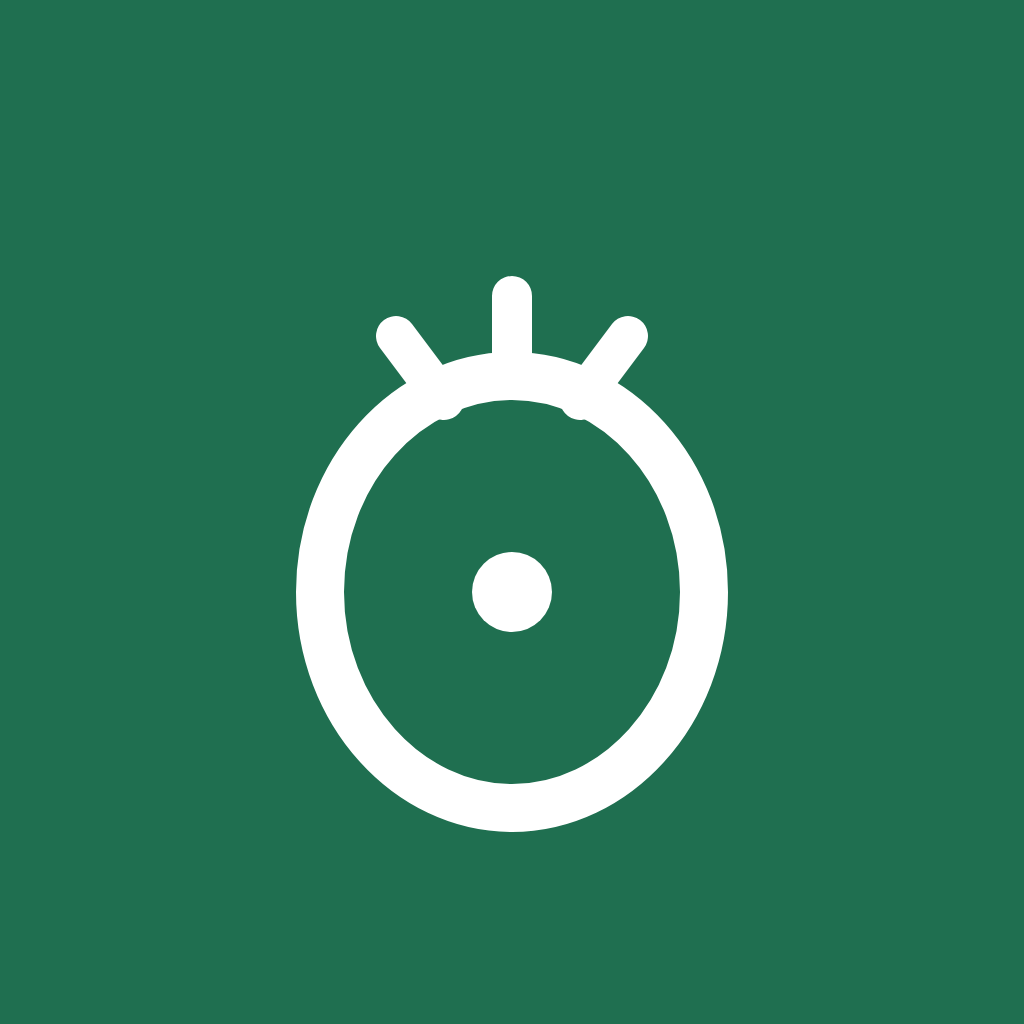
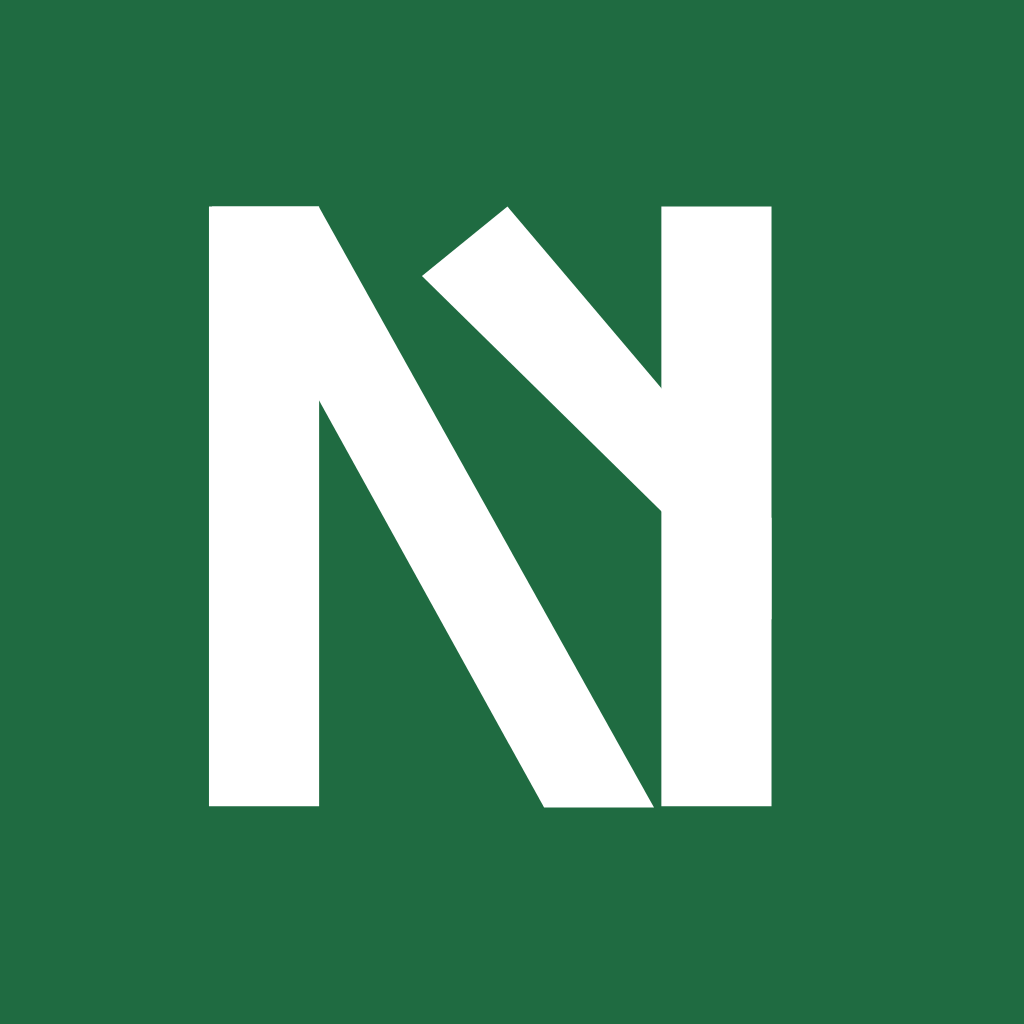
Rebrand to the new NY monogram and add animated app-open splash
- New LogoMark component renders the "NY" monogram (from the Figma
  design), replacing the placeholder Leaf icon in the sidebar header
  and login page.
- App icon (resources/icon.png, full-bleed for native masking) and
  favicon/PWA icon (public/icon.svg) both updated to the new mark on
  the brand green (#1F6B41).
- New SplashIntro component plays once on app open: dark reveal of the
  mark, a brief pulse, then a crossfade into the green "NivYou" lockup
  before handing off to the real app — mirrors the Figma prototype
  sequence, implemented in React since Capacitor's native splash only
  supports a single static image.

Claude-Session: https://claude.ai/code/session_01XcCo2Xq5wXfSZdVALqXBaV

Changed region(s): [[0.1875, 0.1875, 0.7812, 0.8125], [0.5938, 0.4375, 0.625, 0.4688], [0.5625, 0.4062, 0.5938, 0.4375]]

diff --git a/src/components/app/splash-intro.tsx b/src/components/app/splash-intro.tsx
@@ -1,0 +1,79 @@
+import * as React from "react";
+
+import { LogoMark } from "@/components/app/logo-mark";
+
+interface SplashIntroProps {
+  onFinish: () => void;
+}
+
+type Phase = "reveal" | "pulse" | "settle" | "hold" | "exit";
+
+const PHASE_DURATIONS: Record<Phase, number> = {
+  reveal: 350,
+  pulse: 450,
+  settle: 500,
+  hold: 500,
+  exit: 400,
+};
+
+const PHASE_ORDER: Phase[] = ["reveal", "pulse", "settle", "hold", "exit"];
+
+const DARK_BG = "#0a0a0a";
+const BRAND_GREEN = "#1F6B41";
+const MARK_GREEN = "#2f9c6e";
+
+/** One-time animated app-open sequence: dark reveal of the mark, a pulse, then a crossfade into the brand-green lockup. */
+export function SplashIntro({ onFinish }: SplashIntroProps) {
+  const [phase, setPhase] = React.useState<Phase>("reveal");
+
+  React.useEffect(() => {
+    const index = PHASE_ORDER.indexOf(phase);
+    const timer = setTimeout(() => {
+      const next = PHASE_ORDER[index + 1];
+      if (next) {
+        setPhase(next);
+      } else {
+        onFinish();
+      }
+    }, PHASE_DURATIONS[phase]);
+    return () => clearTimeout(timer);
+  }, [phase, onFinish]);
+
+  const isDark = phase === "reveal" || phase === "pulse";
+  const showWordmark = phase === "settle" || phase === "hold";
+  const markScale = phase === "pulse" ? 1.8 : 1;
+
+  return (
+    <div
+      className="fixed inset-0 z-50 flex items-center justify-center"
+      style={{
+        backgroundColor: isDark ? DARK_BG : BRAND_GREEN,
+        opacity: phase === "exit" ? 0 : 1,
+        transition:
+          phase === "exit" ? "opacity 400ms ease-out" : "background-color 500ms ease-out, opacity 400ms ease-out",
+      }}
+    >
+      <div className="flex items-center gap-3">
+        <LogoMark
+          className="size-11 shrink-0"
+          style={{
+            color: isDark ? MARK_GREEN : "#ffffff",
+            transform: `scale(${markScale})`,
+            opacity: phase === "reveal" ? 0 : 1,
+            transition: "transform 500ms ease-out, color 500ms ease-out, opacity 350ms ease-out",
+          }}
+        />
+        <span
+          className="text-2xl font-bold tracking-tight text-white"
+          style={{
+            opacity: showWordmark ? 1 : 0,
+            transform: showWordmark ? "translateX(0)" : "translateX(-8px)",
+            transition: "opacity 500ms ease-out, transform 500ms ease-out",
+          }}
+        >
+          NivYou
+        </span>
+      </div>
+    </div>
+  );
+}

diff --git a/src/App.tsx b/src/App.tsx
@@ -3,6 +3,7 @@ import { toast } from "sonner";
 
 import { AppShell } from "@/components/app/app-shell";
 import type { PageId } from "@/components/app/nav-items";
+import { SplashIntro } from "@/components/app/splash-intro";
 import { useAuth } from "@/hooks/use-auth";
 import { useNativeShell } from "@/hooks/use-native-shell";
 import { migrateLocalDataToCloud } from "@/lib/migrate-local-data";
@@ -77,20 +78,27 @@ export default function App() {
   }
 
   const { cloudEnabled, user, loading } = useAuth();
+  const [showSplash, setShowSplash] = React.useState(true);
 
+  let content: React.ReactNode;
   if (cloudEnabled && loading) {
-    return (
+    content = (
       <div className="bg-background flex min-h-svh items-center justify-center">
         <p className="text-muted-foreground text-sm">Loading…</p>
       </div>
     );
+  } else if (cloudEnabled && !user) {
+    content = <LoginPage />;
+  } else {
+    content = <MainApp />;
   }
 
-  if (cloudEnabled && !user) {
-    return <LoginPage />;
-  }
-
-  return <MainApp />;
+  return (
+    <>
+      {content}
+      {showSplash && <SplashIntro onFinish={() => setShowSplash(false)} />}
+    </>
+  );
 }
 
 function MainApp() {

diff --git a/src/components/app/app-sidebar.tsx b/src/components/app/app-sidebar.tsx
@@ -1,6 +1,5 @@
-import { Leaf } from "lucide-react";
-
 import { AccountMenu } from "@/components/app/account-menu";
+import { LogoMark } from "@/components/app/logo-mark";
 import { NAV_ITEMS, type PageId } from "@/components/app/nav-items";
 import { useAuth } from "@/hooks/use-auth";
 import { cn } from "@/lib/utils";
@@ -18,7 +17,7 @@ export function AppSidebar({ active, onNavigate }: AppSidebarProps) {
     <div className="flex h-full flex-col gap-6 p-4">
       <div className="flex items-center gap-2 px-2 pt-2">
         <div className="bg-primary text-primary-foreground flex size-8 shrink-0 items-center justify-center rounded-lg">
-          <Leaf className="size-4.5" />
+          <LogoMark className="size-5.5" />
         </div>
         <div className="leading-tight">
           <p className="text-sm font-semibold">NivYou</p>

diff --git a/src/pages/login-page.tsx b/src/pages/login-page.tsx
@@ -1,7 +1,7 @@
-import { Leaf } from "lucide-react";
 import * as React from "react";
 import { toast } from "sonner";
 
+import { LogoMark } from "@/components/app/logo-mark";
 import { Button } from "@/components/ui/button";
 import { Card, CardContent, CardDescription, CardHeader, CardTitle } from "@/components/ui/card";
 import { Input } from "@/components/ui/input";
@@ -48,7 +48,7 @@ export function LoginPage() {
         <CardHeader>
           <div className="mb-2 flex items-center gap-2">
             <div className="bg-primary text-primary-foreground flex size-8 items-center justify-center rounded-lg">
-              <Leaf className="size-4.5" />
+              <LogoMark className="size-5.5" />
             </div>
             <span className="font-semibold">NivYou</span>
           </div>

diff --git a/src/components/app/logo-mark.tsx b/src/components/app/logo-mark.tsx
@@ -1,0 +1,18 @@
+import type * as React from "react";
+
+type LogoMarkProps = React.SVGProps<SVGSVGElement>;
+
+/** The "NY" monogram mark. Renders in the current text color. */
+export function LogoMark({ className, ...props }: LogoMarkProps) {
+  return (
+    <svg viewBox="0 0 501 502" fill="none" xmlns="http://www.w3.org/2000/svg" className={className} {...props}>
+      <path d="M94.6106 4.46313H5.6272V488.813H94.6106V4.46313Z" fill="currentColor" />
+      <path d="M460.036 4.46313H371.052V488.813H460.036V4.46313Z" fill="currentColor" />
+      <path
+        d="M246.749 4.46316L177.662 60.5757L460.036 338.047L460.036 256.135L246.749 4.46316Z"
+        fill="currentColor"
+      />
+      <path d="M276.35 490H365.12L94.2364 4.46313H8L276.35 490Z" fill="currentColor" />
+    </svg>
+  );
+}
